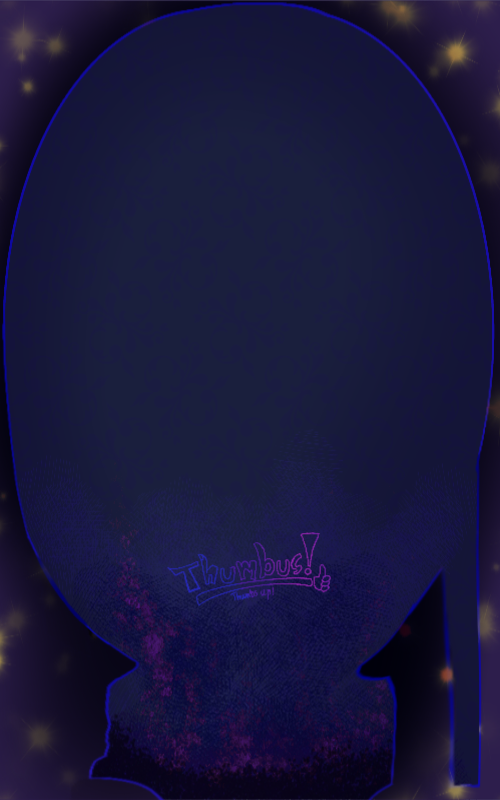
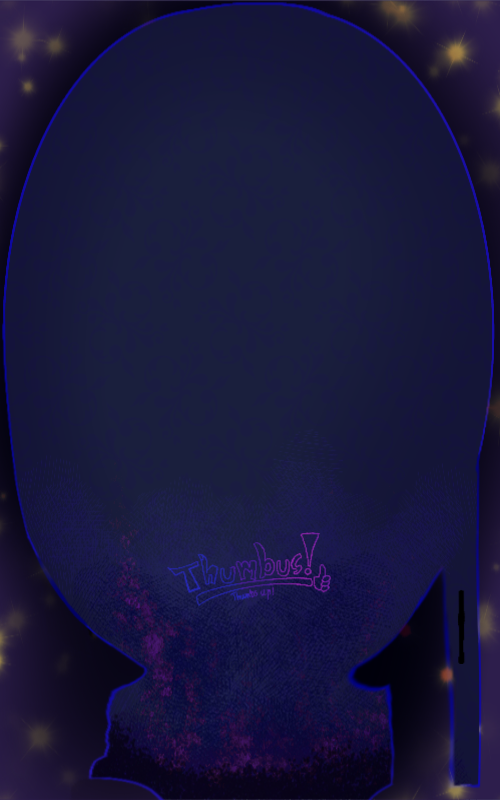
map adjusted

diff --git a/Source/ModuleGame.cpp b/Source/ModuleGame.cpp
@@ -123,10 +123,10 @@ static constexpr int outerBackground[92] = {
 	385, 681,
 	362, 680,
 	355, 667,
-	378, 650,
+	377, 652,
 	400, 632,
 	415, 610,
-	445, 570,
+	444, 566,
 	452, 785,
 	478, 785,
 	476, 464,
